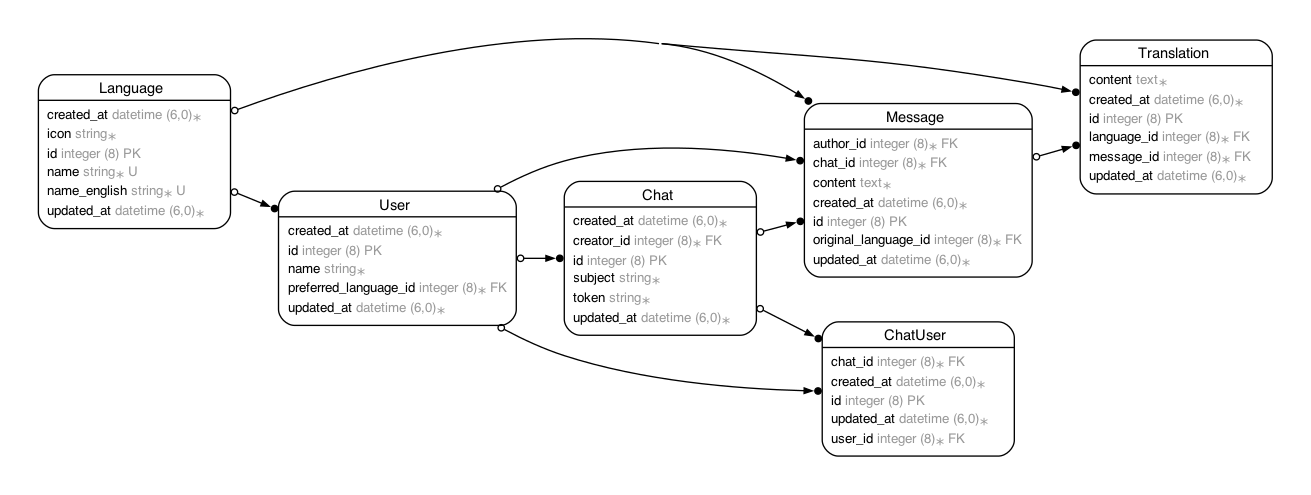
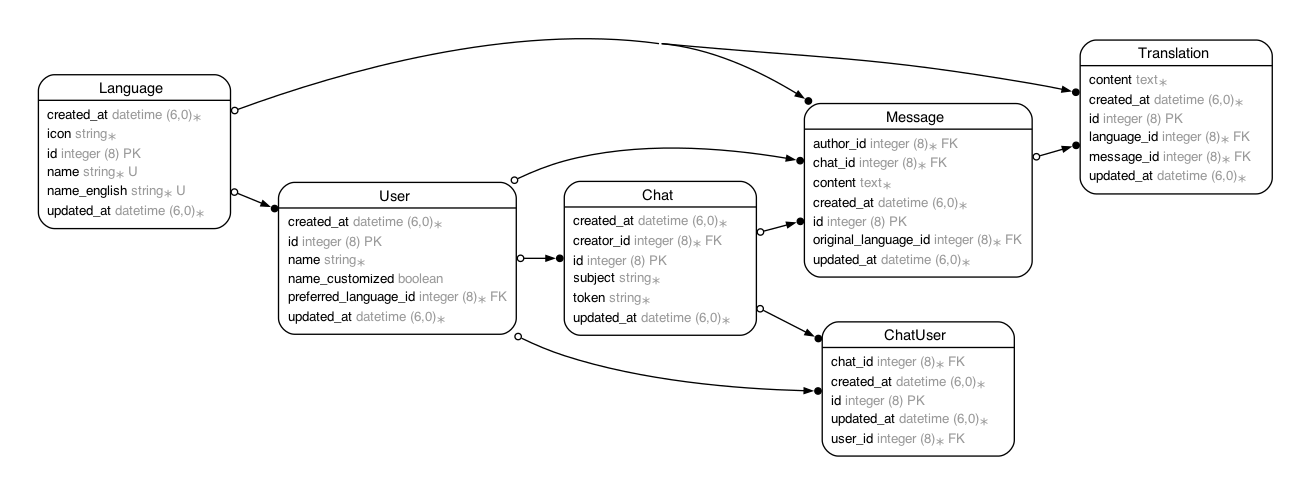
Add automatic username translation based on language preference
- Add name_customized flag to users to track whether they've chosen their own name
- Automatically translate randomly assigned usernames when language changes
- Stop auto-translation once a user customizes their name
- Update controller to mark name as customized when user changes it manually

Changed region(s): [[0.2136, 0.3636, 0.3966, 0.697]]

diff --git a/app/models/user.rb b/app/models/user.rb
@@ -4,6 +4,7 @@
 #
 #  id                    :bigint           not null, primary key
 #  name                  :string           default("pending"), not null
+#  name_customized       :boolean          default(FALSE)
 #  created_at            :datetime         not null
 #  updated_at            :datetime         not null
 #  preferred_language_id :bigint           not null
@@ -26,15 +27,64 @@ class User < ApplicationRecord
 
   before_create :set_random_name
   before_validation :set_default_language
+  after_save :translate_name_if_needed
 
   validates :name, presence: true
 
   def set_random_name
     self.name = Haikunator.haikunate(0)
+    self.name_customized = false
   end
 
   def set_default_language
     self.preferred_language ||= Language.find_by(name_english: "English")
+  end
+
+  def translate_name_if_needed
+    # Only translate if name hasn't been customized and preferred language has changed
+    return if name_customized || !saved_change_to_preferred_language_id?
+
+    # Get the previous and current language objects
+    previous_language_id = preferred_language_id_before_last_save
+    previous_language = Language.find(previous_language_id)
+    current_language = preferred_language
+
+    # Don't translate if the languages are the same
+    return if previous_language.id == current_language.id
+
+    # Translate the name
+    chat = AI::Chat.new
+    chat.model = "gpt-4.1-nano"
+    chat.messages = [
+      {
+        role: "system",
+        content: "You are an expert translator. Your task is to translate a username from the source language to the target language, preserving the meaning."
+      },
+      {
+        role: "user",
+        content: "Please translate the following username from #{previous_language.name} (#{previous_language.name_english}) to #{current_language.name} (#{current_language.name_english}): #{name}"
+      }
+    ]
+    chat.schema = '{
+      "name": "translation_schema",
+      "schema": {
+        "type": "object",
+        "properties": {
+          "translation": {
+            "type": "string",
+            "description": "The translated username."
+          }
+        },
+        "required": [
+          "translation"
+        ],
+        "additionalProperties": false
+      },
+      "strict": true
+    }'
+
+    translated_name = chat.assistant!.fetch("translation")
+    update_column(:name, translated_name)
   end
 
   # Get the content of a message in the user's preferred language

diff --git a/app/controllers/users_controller.rb b/app/controllers/users_controller.rb
@@ -38,6 +38,11 @@ class UsersController < ApplicationController
 
   # PATCH/PUT /users/1 or /users/1.json
   def update
+    # Mark name as customized if it's being changed directly by the user
+    if params[:user][:name].present? && params[:user][:name] != @user.name
+      params[:user][:name_customized] = true
+    end
+
     respond_to do |format|
       if @user.update(user_params)
         if request.referrer&.include?(edit_user_path(@user))
@@ -84,7 +89,7 @@ class UsersController < ApplicationController
 
     # Only allow a list of trusted parameters through.
     def user_params
-      params.expect(user: [ :name, :preferred_language_id ])
+      params.expect(user: [ :name, :preferred_language_id, :name_customized ])
     end
 
     def authorize_user

diff --git a/db/schema.rb b/db/schema.rb
@@ -10,7 +10,7 @@
 #
 # It's strongly recommended that you check this file into your version control system.
 
-ActiveRecord::Schema[8.0].define(version: 2025_04_27_023510) do
+ActiveRecord::Schema[8.0].define(version: 2025_04_27_213013) do
   # These are extensions that must be enabled in order to support this database
   enable_extension "pg_catalog.plpgsql"
 
@@ -71,6 +71,7 @@ ActiveRecord::Schema[8.0].define(version: 2025_04_27_023510) do
     t.datetime "created_at", null: false
     t.datetime "updated_at", null: false
     t.bigint "preferred_language_id", null: false
+    t.boolean "name_customized", default: false
     t.index ["preferred_language_id"], name: "index_users_on_preferred_language_id"
   end
 

diff --git a/db/migrate/20250427213013_add_name_customized_to_users.rb b/db/migrate/20250427213013_add_name_customized_to_users.rb
@@ -1,0 +1,5 @@
+class AddNameCustomizedToUsers < ActiveRecord::Migration[8.0]
+  def change
+    add_column :users, :name_customized, :boolean, default: false
+  end
+end
